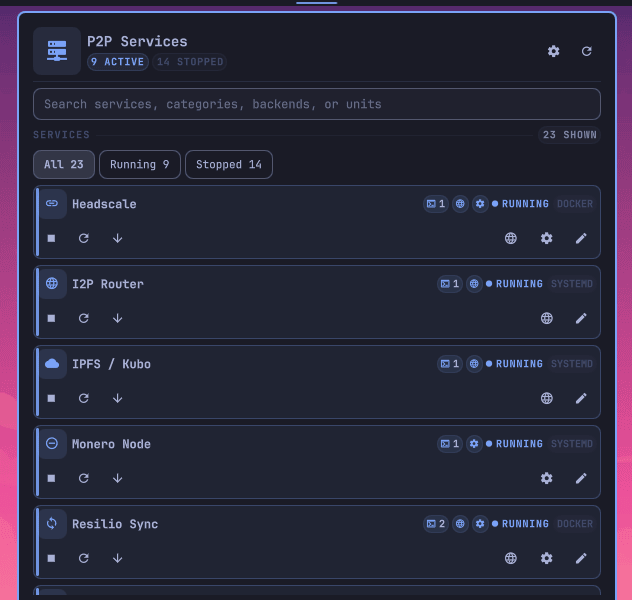
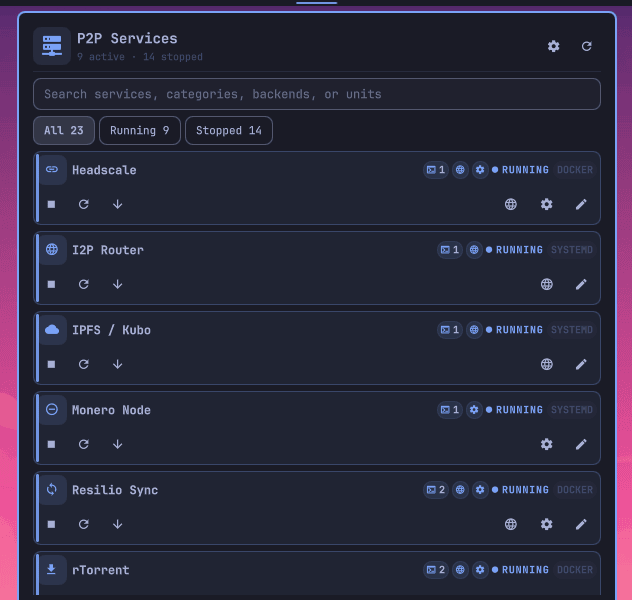
refactor: tighten service layouts

Changed region(s): [[0.0301, 0.03, 0.962, 1.0], [0.8718, 0.06, 0.932, 0.09]]

diff --git a/BarWidget.qml b/BarWidget.qml
@@ -710,10 +710,15 @@ Panel {
         RowLayout {
           visible: root.editingServiceId === "" && !root.showingWidgetSettings && root.services.length > 0
           Layout.fillWidth: true
-          Text { text: "SERVICES"; textFormat: Text.PlainText; color: Color.muted; font.family: Style.font.family; font.pixelSize: Style.font.caption; font.weight: Font.Bold; font.letterSpacing: 1.2 }
-          Rectangle { Layout.fillWidth: true; implicitHeight: 1; color: Util.alpha(Color.muted, 0.18) }
+          spacing: Style.spacing.sm
+          P2PFilterPill { controller: root; label: "All " + root.services.length; value: "all" }
+          P2PFilterPill { controller: root; label: "Running " + root.activeCount; value: "running" }
+          P2PFilterPill { controller: root; label: "Stopped " + root.stoppedCount; value: "stopped" }
+          P2PFilterPill { controller: root; label: "Issues " + root.errorCount; value: "issues"; visible: root.errorCount > 0 }
+          Item { Layout.fillWidth: true }
           Rectangle {
             objectName: "visibleServiceCountBadge"
+            visible: root.serviceFilter !== "all" || root.searchQuery !== ""
             implicitWidth: visibleServiceCountText.implicitWidth + Style.spacing.sm * 2
             implicitHeight: visibleServiceCountText.implicitHeight + Style.space(4)
             radius: implicitHeight / 2
@@ -721,25 +726,6 @@ Panel {
             border.width: 1
             border.color: Util.alpha(Color.muted, 0.24)
             Text { id: visibleServiceCountText; anchors.centerIn: parent; text: root.visibleServices.length + " SHOWN"; textFormat: Text.PlainText; color: Color.popups.text; opacity: 0.68; font.family: Style.font.mono || Style.font.family; font.pixelSize: Style.font.caption; font.weight: Font.Bold; font.letterSpacing: 0.8 }
-          }
-        }
-
-        RowLayout {
-          visible: root.editingServiceId === "" && !root.showingWidgetSettings && root.services.length > 0
-          Layout.fillWidth: true
-          spacing: Style.spacing.sm
-          P2PFilterPill { controller: root; label: "All " + root.services.length; value: "all" }
-          P2PFilterPill { controller: root; label: "Running " + root.activeCount; value: "running" }
-          P2PFilterPill { controller: root; label: "Stopped " + root.stoppedCount; value: "stopped" }
-          P2PFilterPill { controller: root; label: "Issues " + root.errorCount; value: "issues"; visible: root.errorCount > 0 }
-          Item { Layout.fillWidth: true }
-          Text {
-            visible: root.serviceFilter !== "all" || root.searchQuery !== ""
-            text: root.visibleServices.length + " result" + (root.visibleServices.length === 1 ? "" : "s")
-            textFormat: Text.PlainText
-            color: Color.muted
-            font.family: Style.font.family
-            font.pixelSize: Style.font.caption
           }
         }
 

diff --git a/RuntimeServiceListTest.qml b/RuntimeServiceListTest.qml
@@ -85,7 +85,10 @@ ShellRoot {
     mockController.serviceLayout = "grid"
     Qt.callLater(function() {
       if (!serviceList.gridView || !serviceList.twoColumnGrid || serviceList.columns !== 2 || !syncCard.compact || !syncCard.grid || namedIn(sync, "serviceGroupHeader").visible) throw new Error("responsive grid layout failed")
-      if (!namedIn(syncCard, "gridMetadataRow").visible || !namedIn(syncCard, "gridStatusPill")) throw new Error("grid card metadata did not reflow")
+      var metadataRow = namedIn(syncCard, "gridMetadataRow")
+      var metadataPill = namedIn(syncCard, "gridIndicatorPill")
+      if (!metadataRow.visible || metadataRow.leadingInset <= 0 || !metadataPill || metadataPill.horizontalPadding <= metadataRow.leadingInset || !namedIn(syncCard, "gridStatusPill"))
+        throw new Error("grid card metadata did not reflow with padded indicators and a leading inset")
       serviceList.width = 400
       if (serviceList.twoColumnGrid || serviceList.columns !== 1) throw new Error("narrow grid did not collapse to one column")
       serviceList.width = 600

diff --git a/P2PServiceCard.qml b/P2PServiceCard.qml
@@ -130,8 +130,10 @@ Rectangle {
 
     RowLayout {
       objectName: "gridMetadataRow"
+      property int leadingInset: Style.spacing.xs
       visible: card.grid
       Layout.fillWidth: true
+      Layout.leftMargin: leadingInset
       spacing: Style.spacing.xs
       Repeater {
         model: card.grid ? Model.compactIndicators(card.entry) : []
@@ -139,7 +141,8 @@ Rectangle {
           id: gridIndicatorPill
           objectName: "gridIndicatorPill"
           required property var modelData
-          implicitWidth: gridIndicatorRow.implicitWidth + Style.spacing.sm * 2
+          property int horizontalPadding: Style.spacing.md
+          implicitWidth: gridIndicatorRow.implicitWidth + horizontalPadding * 2
           implicitHeight: gridIndicatorRow.implicitHeight + Style.space(4)
           radius: implicitHeight / 2
           color: Util.alpha(card.controller.serviceColor(card.entry), 0.11)

diff --git a/README.md b/README.md
@@ -7,15 +7,15 @@ peer-to-peer clients and overlay-network daemons.
 [Source](https://github.com/bolens/omarchy-p2p-services) ·
 [Report an issue](https://github.com/bolens/omarchy-p2p-services/issues/new/choose)
 
-![P2P Services status panel with privacy filtering enabled](preview.png?v=bd1cd8b1ea80)
+![P2P Services status panel with privacy filtering enabled](preview.png?v=0b8d047f5d45)
 
 | General settings | Performance settings | Bar widget |
 | --- | --- | --- |
-| ![P2P Services privacy and behavior settings](docs/general.png?v=b8b3328caad4) | ![P2P Services refresh and resource settings](docs/performance.png?v=460583057e0a) | ![P2P Services Omarchy bar widget](docs/bar.png?v=f1f8ab12287a) |
+| ![P2P Services privacy and behavior settings](docs/general.png?v=fc9347ee90b7) | ![P2P Services refresh and resource settings](docs/performance.png?v=562393b380f6) | ![P2P Services Omarchy bar widget](docs/bar.png?v=f1f8ab12287a) |
 
 | Compact icon list | Two-column grid |
 | --- | --- |
-| ![P2P Services compact icon list](docs/compact.png?v=6fa1082c4655) | ![P2P Services two-column service grid](docs/grid.png?v=d5080ab638d2) |
+| ![P2P Services compact icon list](docs/compact.png?v=3066de817bb1) | ![P2P Services two-column service grid](docs/grid.png?v=ceaf8d6f9410) |
 
 Supported backends include Yggdrasil, Tailscale, ZeroTier, Nebula, Headscale,
 NetBird, NetBird Server, Netmaker, Netmaker Client, I2P/I2Pd, Freenet/Hyphanet, AirDC++,
